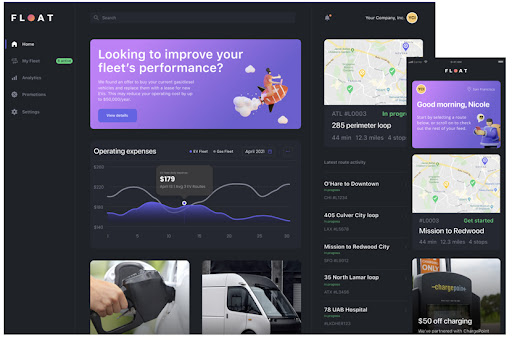
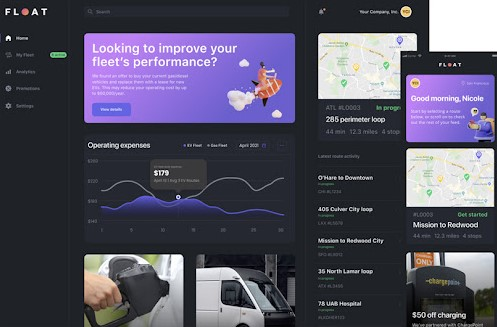
Swaped Images and cleaned of the

diff --git a/src/component/HomeMain/AboutApp/Main.js b/src/component/HomeMain/AboutApp/Main.js
@@ -14,7 +14,7 @@ const Main = ({video , dark } ) => {
                     <div className="col-lg-6">
                         <div className="about_img" data-aos="fade-in" data-aos-duration="1500">
                         <div className="frame_img">
-                            <img className="moving_position_animatin" src={floatH3} alt="image"/>
+                            <img className="moving_position_animatin" src={floatDash} alt="image"/>
                         </div>
 
                         <div>
@@ -22,7 +22,7 @@ const Main = ({video , dark } ) => {
                         </div>
 
                         <div className="screen_img">
-                            <img className="moving_animation" src={floatDash} alt="image" />
+                            <img className="moving_animation" src={floatH3} alt="image" />
                         </div>
                         </div>
                     </div>                   

diff --git a/src/assets/css/style.css b/src/assets/css/style.css
@@ -944,23 +944,23 @@ header.fixed .navbar {
 /* about us section images*/
 .about_app_section .about_img img {
     max-width: 100%;
-    border-radius: 15px;
+    border-radius: 20px 20px 30px 30px;
 }
 
 /* Phone Frame Image */
 .about_app_section .about_img .frame_img {
     position: absolute;
-    max-width: 15rem;
-    width: 100%;
-    height: 32rem;
+    width: 16.9rem;
+    height: 36rem;
     z-index: 0;
     left: 9px;
-    bottom: 7px;
+    bottom: 13px;
 }
 
 .about_app_section .about_img .frame_img img {
     height: 100%;
-    object-fit: none;
+    object-fit: cover;
+    object-position: 0% 0;
 }
 
 .about_app_section .about_img::before {
@@ -982,7 +982,8 @@ header.fixed .navbar {
 }
 
 .about_app_section .about_img .screen_img img {
-    object-fit: none;
+    width: 100%;
+    object-fit: contain;
 }
 
 .about_app_section .about_text .section_title {

diff --git a/src/assets/css/responsive.css b/src/assets/css/responsive.css
@@ -140,6 +140,7 @@
     .about_app_section .about_text .app_statstic {justify-content: flex-start;}
     .about_app_section .about_text .app_statstic li {width: 35%; margin-right: 30px;}
     .about_app_section .about_img::before {left: 35%;}
+    .about_app_section .about_img .frame_img {max-width: 17.8rem; height: 37.59rem;}
     
     /* modern ui section */
     .modern_ui_section .ui_images {margin-top: 30px;}
